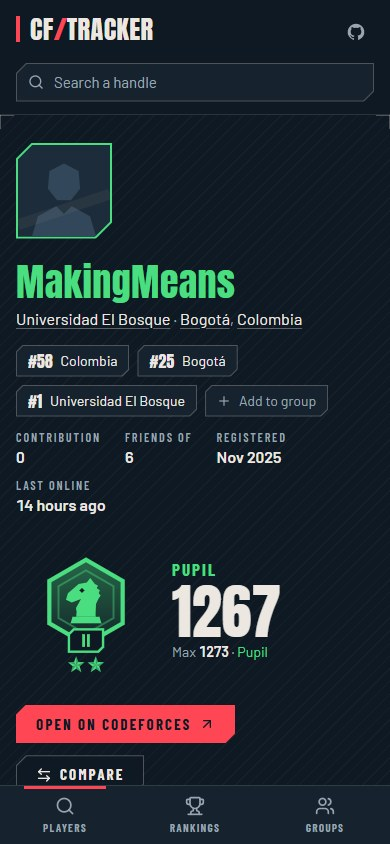
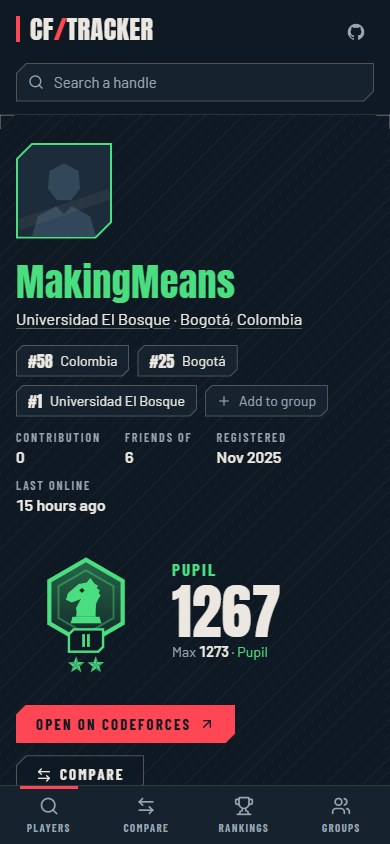
docs: handle suggestions, Compare section and table sizes

diff --git a/docs/DESIGN.md b/docs/DESIGN.md
@@ -130,8 +130,9 @@ All motion is CSS; there is no animation library.
 
 ## Navigation
 
-Three sections, the same everywhere: **Players** (search, profiles, comparisons), **Rankings** and
-**Groups**.
+Four sections, the same everywhere: **Players** (search and profiles), **Compare** (picking two
+players, and comparisons), **Rankings** and **Groups**. Compare opened from a profile starts with
+that player as the first one.
 
 - **Desktop.** A 76 px rail on the left, under the top bar, that stays in view. Each section is an
   icon over an 11 px uppercase label: icons alone read worse. The current one is in `ink` with a 3 px
@@ -146,13 +147,21 @@ Three sections, the same everywhere: **Players** (search, profiles, comparisons)
   Organization or Group. Places are suggested as you type from the daily snapshot, accents ignored;
   names that start with the text come first, then the biggest. It is a WAI-ARIA combobox: arrow keys
   move through the list, Enter opens, Escape closes.
-- **Stat tiles.** A big Anton number over a small label, ratings in their rank colour: players,
+- **Handle suggestions.** Every handle field (the searches, Compare, adding to a group) suggests
+  rated players from the snapshot as you type: handles that start with the text first, then those
+  that contain it, best rated first, each with a 32 px emblem, rating and country. An empty field
+  offers recent searches. Enter on a highlighted suggestion picks it; otherwise Enter searches what
+  was typed, so a handle missing from the snapshot (unrated, or away for a month) still works.
+- **Suggestion lists sit on top.** Cut boxes isolate their stacking, so a field with suggestions
+  lifts its own container (`relative z-20`, the top bar `z-30`) above what follows on the page.
+- **Stat tiles.** A big Anton number (36 px) over a small label, ratings in their rank colour: players,
   competed this month, average, and **Team rating · top 3**, Codeforces' team formula on the best
   three (the rating of a player the team would beat half the time, the team winning if any member
   wins).
-- **Player tables.** Fixed layout, so long handles are cut instead of widening the page. Place in
-  Anton; the emblem at 44 px with its division; the handle in its rank colour, linking to the profile;
-  rating in rank colour, best rating muted. City, organization or country columns are hidden on
+- **Player tables.** Fixed layout, so long handles are cut instead of widening the page. Text at
+  17 px; the place in 24 px Anton; the emblem at 60 px (52 px on phones) with its division; the
+  handle at 18 px in its rank colour, linking to the profile; the rating at 18 px semibold in its rank
+  colour, best rating muted. City, organization or country columns are hidden on
   phones. Equal ratings share a place (1, 2, 2, 4).
 - **Competed this month.** A 7 px `win` square after the handle, with the words for screen readers.
 - **The player you came from.** Arriving from a profile's chip, their row is tinted, outlined in
@@ -269,7 +278,8 @@ The table lives in `src/lib/codeforces/ranks.ts` (`DIVISIONS`, `divisionFor`) an
 
 - **Sizes.** 140 px in the profile header, up to 100 px on the home page's rank ladder (the
   emblem fills its cell), 92 px on the rating card, 84 px in the match history (64 px in rows on
-  phones), 80 px in the comparison header, 44 px in ranking and group tables.
+  phones), 80 px in the comparison header, 60 px in ranking and group tables (52 px on phones),
+  32 px in handle suggestions.
   Stars are countable from 44 px up; at 28 px they read as a row of dots.
 - **Accessibility.** Every emblem has `role="img"`, an `aria-label` and a `<title>` with the rank
   name and star count. Next to text, the rank name is always written out too.

diff --git a/README.md b/README.md
@@ -20,8 +20,9 @@ match history, styled like a game tracker. Think tracker.gg for Valorant, but fo
 ## Features
 
 - **Search any handle.** The handle is checked in the browser (3–24 letters, digits, `_`, `.` or `-`)
-  before Codeforces is asked. A handle that does not exist can be corrected right where it failed. Recent
-  searches are remembered on your device and can be removed one by one.
+  before Codeforces is asked. As you type, rated players whose handle starts with (then contains) the
+  text are suggested, best first. A handle that does not exist can be corrected right where it failed.
+  Recent searches are remembered on your device and can be removed one by one.
 - **Profile header.** Photo, handle in its rank colour, organisation and location, rank emblem, current
   and peak rating, contribution, friends, registration date and last visit, plus a link to the profile
   on Codeforces.
@@ -35,7 +36,8 @@ match history, styled like a game tracker. Think tracker.gg for Valorant, but fo
 - **Insights.** Problems solved by difficulty, most-solved tags, languages used and a contest summary
   (best place, biggest gain, biggest loss).
 - **Upcoming contests** on the home page, with a countdown.
-- **Compare two handles** side by side, including the contests both of them entered.
+- **Compare two handles** side by side, including the contests both of them entered, from any profile or
+  from the Compare section, which suggests handles as you type.
 - **Rankings** by country, city and organization: every rated player who was on Codeforces in the last
   month, in order, with the average rating and the team rating of the best three. A profile shows the
   player's place in each (`#58 Colombia`), and its organization, city and country link to them.
@@ -53,7 +55,7 @@ within the rank (Pupil II, Legendary Grandmaster IV…). Codeforces has no rank 
 | What                      | How                                                   |
 | ------------------------- | ----------------------------------------------------- |
 | Look up a handle          | Type it in the search box, or open `?handle=<handle>` |
-| Compare two handles       | `?handle=<a>&vs=<b>`                                  |
+| Compare two handles       | `?handle=<a>&vs=<b>`, or pick them at `?compare`      |
 | Rankings                  | `?rankings`                                           |
 | A country's ranking       | `?country=<name>`, a city in it: `&city=<name>`       |
 | An organization's ranking | `?org=<name>`                                         |
